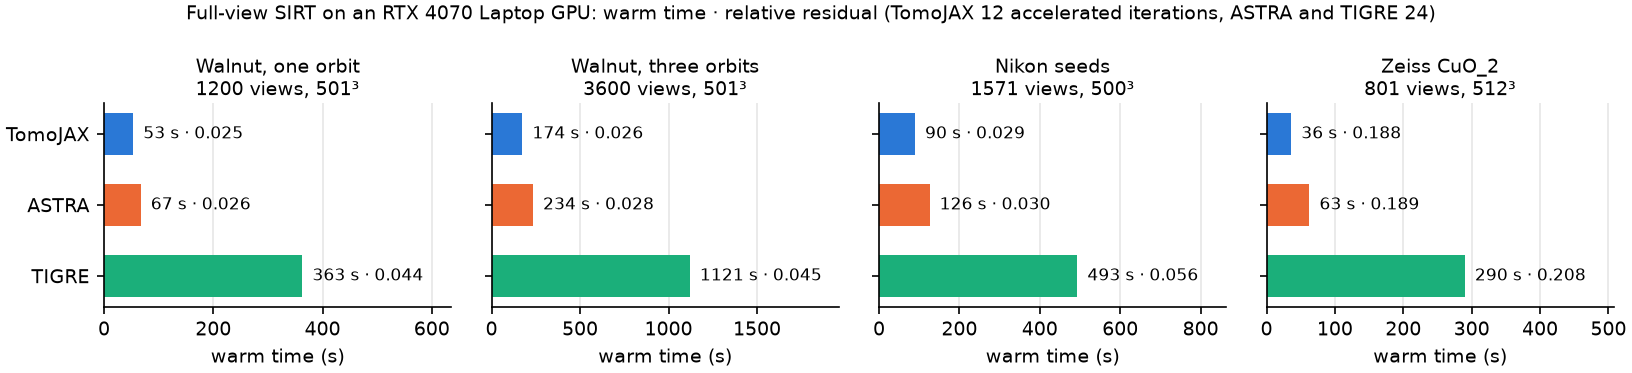
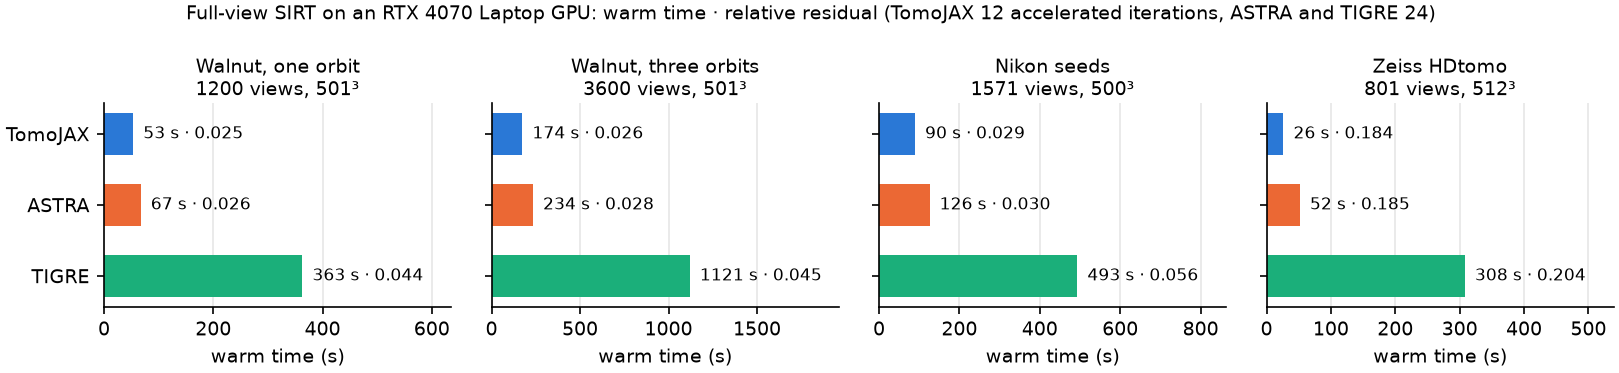
Remeasure the Zeiss numbers with the centre shift loaded with its recorded sign
Every number in docs/measurements.md taken on a Zeiss scan that records
AutoRecon/CenterShift (CuO-spl1, CuO_2 tomo-B, the HDtomo tomo-A) was measured
with the centre off by twice the shift. Remeasured on 2026-11-21:

- CuO FDK at fourfold binning, all three libraries (d8758ca5);
- the CuO CGLS rows, ASTRA-TomoJAX-TomoJAX-ASTRA (d8758ca5);
- the native CuO-spl1 FDK from raw frames and its 256-view residual
  (d8758ca5); the ASTRA run there is marked as measured before the fix;
- the HDtomo SIRT, CGLS and ordered-subset rows (1c94b346).

TomoJAX and ASTRA rows are bench/cone_matrix.py as documented. The TIGRE rows
and the native run follow the documented calls. The vendor NRMSE now states its
definition (blocks averaged onto our grid, one registration, one affine fit
inside the vendor's reconstructed field); the old region was not recorded, so
the new values are not compared with the old ones.

The SIRT chart named the HDtomo scan "Zeiss CuO_2"; it now says HDtomo and
shows the new numbers. CHANGELOG: Zeiss scans with a recorded centre shift, and
SkyScan scans recorded counter-clockwise, loaded wrongly before this release.

diff --git a/examples/gallery/sirt_times.py b/examples/gallery/sirt_times.py
@@ -25,7 +25,7 @@ TABLE = {
     "Walnut, three orbits\n3600 views, 501³":
         ((174.22, 0.026222), (234.35, 0.027558), (1120.54, 0.045232)),
     "Nikon seeds\n1571 views, 500³": ((89.63, 0.028788), (125.78, 0.030057), (493.43, 0.056112)),
-    "Zeiss CuO_2\n801 views, 512³": ((36.15, 0.187915), (62.76, 0.189497), (290.02, 0.207728)),
+    "Zeiss HDtomo\n801 views, 512³": ((26.32, 0.183740), (51.85, 0.185370), (308.06, 0.204008)),
 }  # fmt: skip
 
 

diff --git a/docs/measurements.md b/docs/measurements.md
@@ -771,8 +771,9 @@ Both image errors use the authors' reference, without intensity fitting.
 
 ### Full-view Nikon and Zeiss SIRT
 
-Measured 2026-10-19 on `272684c7` (TomoJAX and Zeiss ASTRA) and `35f4055f`
-(Nikon ASTRA), with TIGRE on `e3bc2f63` (Nikon) and `6149357d` (Zeiss).
+The Nikon rows were measured 2026-10-19 on `272684c7` (TomoJAX), `35f4055f`
+(ASTRA) and `e3bc2f63` (TIGRE). The Zeiss rows were measured 2026-11-21 on
+`1c94b346`, with the Zeiss centre shift loaded with its recorded sign.
 Nikon uses all 1571 views and a 500³ grid with 0.1880371266 mm
 voxels; Zeiss uses all 801 views and a 512³ grid with 0.0833853988647461 mm
 voxels. The input is
@@ -780,8 +781,9 @@ voxels. The input is
 is the Nikon seeds XTekCT file or the Zeiss HDtomo `tomo-A.txrm` file and
 `grid` is `tj.Grid(n, n, n, pitch, pitch, pitch)` with those dimensions.
 Each solve starts from its library's FDK. TomoJAX uses the same 12-iteration
-accelerated SIRT call above; ASTRA uses 24 nonnegative iterations with its
-forward/backprojectors in 512-view batches. TIGRE uses
+accelerated SIRT call above; ASTRA uses 24 nonnegative iterations, with its
+forward/backprojectors in 512-view batches for Nikon and `SIRT3D_CUDA` with
+`MinConstraint` 0 for Zeiss. TIGRE uses
 `tigre.algorithms.sirt(data, geo, angles, 24, init=initial, verbose=False)`,
 with `initial = tigre.algorithms.fdk(data, geo, angles, dowang=False)`.
 
@@ -790,21 +792,22 @@ with `initial = tigre.algorithms.fdk(data, geo, angles, dowang=False)`.
 | Nikon | TomoJAX | 95.52 / 89.63 | 0.028788 | 0.013977 |
 | Nikon | ASTRA | 135.89 / 125.78 | 0.030057 | — |
 | Nikon | TIGRE | 504.23 / 493.43 | 0.056112 | 0.102748 |
-| Zeiss | TomoJAX | 43.86 / 36.15 | 0.187915 | 0.025439 |
-| Zeiss | ASTRA | 69.11 / 62.76 | 0.189497 | — |
-| Zeiss | TIGRE | 291.57 / 290.02 | 0.207728 | 0.137740 |
+| Zeiss | TomoJAX | 33.32 / 26.32 | 0.183740 | 0.025155 |
+| Zeiss | ASTRA | 55.51 / 51.85 | 0.185370 | — |
+| Zeiss | TIGRE | 309.66 / 308.06 | 0.204008 | 0.136161 |
 
 Cold includes imports, loading and the first host volume with fresh compilation
 caches; warm repeats the solve. Filesystem caches are not cleared. Loading took
 3.03 / 10.04 / 3.02 s for Nikon TomoJAX / ASTRA / TIGRE, and
-4.99 / 5.77 / 2.05 s for Zeiss.
+3.63 / 3.73 / 3.88 s for Zeiss.
 The same calibrated ASTRA forward projector scores all three libraries. Volume
-differences are full-volume relative L2, without intensity fitting. On the
-fixed Zeiss vendor region, intensity-affine NRMSE is 0.353989 for TomoJAX,
-0.351702 for ASTRA and 0.343797 for TIGRE; this is an image diagnostic,
-not an acceptance gate.
+differences are full-volume relative L2, without intensity fitting. Against
+the vendor's reconstruction, averaged over 2 × 2 × 2 blocks onto the same grid
+and compared as in the CuO FDK section below, NRMSE is 0.321365 for TomoJAX,
+0.319123 for ASTRA and 0.311827 for TIGRE; this is an image diagnostic, not an
+acceptance gate.
 
-![Warm SIRT times of TomoJAX, ASTRA and TIGRE on the walnut with one and three orbits, the Nikon seeds and the Zeiss CuO_2 scan, each with its common-projector residual.](images/sirt-times.png)
+![Warm SIRT times of TomoJAX, ASTRA and TIGRE on the walnut with one and three orbits, the Nikon seeds and the Zeiss HDtomo scan, each with its common-projector residual.](images/sirt-times.png)
 
 The two SIRT tables above, drawn from their numbers: warm time and, after it,
 the common-projector relative residual.
@@ -815,7 +818,8 @@ uv run python examples/gallery/sirt_times.py sirt-times.png
 
 ### CuO FDK at fourfold binning
 
-Measured 2026-10-20 on `75435039`. Both Zeiss CuO scans use all 3201 views
+Measured 2026-11-21 on `d8758ca5`, with the Zeiss centre shift loaded with its
+recorded sign (before, both scans loaded with the wrong centre). Both Zeiss CuO scans use all 3201 views
 with 4 × 4 detector binning: spl1 has a 509³ grid and CuO2 a 507³ grid.
 Load `frames = tj.load_frames(path, darks=0)`, then
 `scan = frames.corrected(binning=4)` and call
@@ -826,30 +830,35 @@ geometry. No library changes its geometry or input to match another image.
 
 | Scan | Library | Cold / warm (s) | Common-projector relative residual | Full-volume difference to ASTRA |
 |---|---|---:|---:|---:|
-| spl1 | TomoJAX | 33.52 / 3.76 | 0.057908 | 0.126512 |
-| spl1 | ASTRA | 32.78 / 4.74 | 0.104623 | — |
-| spl1 | TIGRE | 38.01 / 11.59 | 0.104608 | 0.000039 |
-| CuO2 | TomoJAX | 39.70 / 4.12 | 0.078255 | 0.126404 |
-| CuO2 | ASTRA | 53.71 / 10.31 | 0.120631 | — |
-| CuO2 | TIGRE | 50.14 / 12.38 | 0.120616 | 0.000039 |
+| spl1 | TomoJAX | 32.48 / 3.44 | 0.056577 | 0.125739 |
+| spl1 | ASTRA | 32.13 / 5.33 | 0.103854 | — |
+| spl1 | TIGRE | 37.75 / 10.38 | 0.103839 | 0.000038 |
+| CuO2 | TomoJAX | 30.73 / 3.43 | 0.063343 | 0.122384 |
+| CuO2 | ASTRA | 29.19 / 5.22 | 0.112359 | — |
+| CuO2 | TIGRE | 35.56 / 10.08 | 0.112342 | 0.000039 |
 
 Cold includes loading and the first host image in a fresh process with fresh
 compilation caches; warm repeats the solve. Filesystem caches are not cleared.
-Loading and setup take 25.13 / 27.49 / 23.25 s for spl1 TomoJAX / ASTRA / TIGRE,
-and 30.13 / 44.41 / 29.63 s for CuO2. TomoJAX's spl1 cold workflow is slower
-than ASTRA's despite its faster warm solve.
+Loading and setup take 24.05 / 24.74 / 24.42 s for spl1 TomoJAX / ASTRA / TIGRE,
+and 23.08 / 22.48 / 24.11 s for CuO2. TomoJAX's cold workflow is slightly slower
+than ASTRA's on both scans despite its faster warm solve.
 
 All views use the same calibrated ASTRA residual. Full-volume differences are
 relative L2 without intensity fitting, not physical error. On spl1, differences
 in virtual padding, filter discretization and full-turn coverage weights account
-for the difference between TomoJAX and ASTRA. The fixed vendor comparison uses
-501 complete four-plane blocks, covering 2004 native planes, and one global
-affine intensity fit: NRMSE 0.154591 / 0.154654 / 0.154651 for TomoJAX / ASTRA /
-TIGRE. This is an image diagnostic, not ground truth. CuO2 has no vendor volume.
-On the full spl1 grid, TomoJAX–ASTRA relative L2 is 0.005718 within the
-vendor-defined sample mask, 0.007387 inside the horizontal cylinder seen by
-all views and 0.619622 outside it; 99.67% of the squared difference is outside.
-The sample mask includes pores and is independent of both library images.
+for the difference between TomoJAX and ASTRA. The vendor comparison averages
+the vendor's reconstruction over 4 × 4 × 4 blocks (501 four-plane blocks,
+covering 2004 native planes), registers it once to TomoJAX's volume (a fixed
+flip and an integer shift, by phase correlation of high-passed volumes) and fits
+one affine intensity map over the voxels inside the vendor's reconstructed field
+(above half the vendor volume's median). NRMSE, the fitted residual's RMS over
+the vendor's standard deviation there, is 0.109446 / 0.109836 / 0.109839 for
+TomoJAX / ASTRA / TIGRE. This is an image diagnostic, not ground truth. CuO2 has
+no vendor volume. On the full spl1 grid, TomoJAX–ASTRA relative L2 is 0.006836
+inside the vendor's field and 0.617055 outside it; 99.72% of the squared
+difference is outside. The field comes from the vendor's volume, independent of
+both library images. The TomoJAX and ASTRA rows are
+`bench/cone_matrix.py cuo PATH --library tomojax|astra --method fdk --repeats 1`.
 
 ### Full-view Nikon OSEM
 
@@ -879,9 +888,10 @@ these are image diagnostics, not reconstruction errors.
 
 ### Full-view CGLS
 
-The Walnut rows were measured 2026-11-19 on `40330cf`, and Nikon and
-Zeiss on `22571a59`, with ASTRA 2.5.0, CuPy 14.2.0 and one OpenBLAS/OMP
-thread per process.
+The Walnut rows were measured 2026-11-19 on `40330cf`, Nikon on `22571a59`
+and Zeiss 2026-11-21 on `1c94b346` (with the Zeiss centre shift loaded with its
+recorded sign), with ASTRA 2.5.0, CuPy 14.2.0 and one OpenBLAS/OMP thread per
+process.
 Walnut uses all 1200 views of orbit 2, detector binning 2 × 2 and a 501³ grid
 of 0.1 mm voxels. Nikon and Zeiss use the full-view inputs and physical grids
 above; the Nikon input is
@@ -896,8 +906,8 @@ with GPU residuals, host search projections and 128-view batches.
 | Walnut, one orbit | ASTRA | 18.34 / 13.86 | 0.182273 / 0.086669 | — |
 | Nikon | TomoJAX | 27.99 / 22.83 | 0.034928 | 0.027397 |
 | Nikon | ASTRA | 35.41 / 31.60 | 0.029934 | — |
-| Zeiss | TomoJAX | 15.30 / 10.15 | 0.163861 | 0.042137 |
-| Zeiss | ASTRA | 14.10 / 11.87 | 0.155535 | — |
+| Zeiss | TomoJAX | 16.29 / 9.20 | 0.158260 | 0.041474 |
+| Zeiss | ASTRA | 15.59 / 12.00 | 0.149628 | — |
 
 Each pair uses two fresh processes per library in ASTRA–TomoJAX–TomoJAX–ASTRA
 order, with two warm solves per process. The table averages all four warm
@@ -932,17 +942,11 @@ recorded. Major page faults in ABBA order
 were 1599 / 1588 / 1 / 22; reported process swaps were zero. These observations
 do not establish absence of system swapping or equal filesystem-cache state.
 
-On the Zeiss pair, TomoJAX's warm time is 14.5% lower, but cold
-time is 8.6% higher and common-projector residual 5.35% higher: **not a
-matched-error speed win**. Prescoring total-device GPU peaks are 4576 / 5166
-MiB and host RSS peaks 3.514 / 3.854 GB (TomoJAX / ASTRA). Whole-process host
-peaks including scoring are 4.478 / 3.854 GB; the whole-job GPU trace peaks
-at 5666 MiB. The temporary reference volume was deleted. CPU affinity was
-0–7. Each process recorded cumulative full-memory PSI stalls at its start
-and end. Total stalls per arm, divided conservatively by that arm's shortest
-reported solve time, are at most 0.00740%, below the 1% exclusion threshold.
-All four arms qualify; none was discarded. This bounds pressure within the
-solve timers without assuming that the whole-process average applies to each.
+On the Zeiss pair, TomoJAX's warm time is 23.3% lower, but cold time is 4.5%
+higher and its common-projector residual 5.8% higher: **not a matched-error
+speed win**. Prescoring total-device GPU peaks are 4577 / 5167 MiB and host RSS
+peaks 3.494 / 3.733 GB (TomoJAX / ASTRA). The temporary reference volume was
+deleted.
 
 The historical Walnut times on `e2cd2101` were 27.48 / 18.84 s for TomoJAX
 and 22.28 / 16.30 s for ASTRA. Historical Nikon times were 31.74 / 26.74 s
@@ -995,24 +999,26 @@ ASTRA uses its bounded device-residual recurrence with 128-view batches.
 |---|---|---:|---:|---:|
 | Walnut, three orbits, `3ba80328` | TomoJAX, 3 | 79.06 / 59.25 | 0.149590 / 0.061075 | 0.010133 |
 | Same | ASTRA, 4 | 74.56 / 60.26 | 0.146930 / 0.058154 | — |
-| CuO-spl1, `ed9641e7` | TomoJAX, 3 | 74.87 / 44.94 | 0.028927 | 0.073933 |
-| Same | ASTRA, 5 | 91.56 / 65.42 | 0.028078 | — |
-| CuO2, `ed9641e7` | TomoJAX, 3 | 80.78 / 48.60 | 0.061258 | 0.074565 |
-| Same | ASTRA, 5 | 95.80 / 66.05 | 0.060670 | — |
+| CuO-spl1, `d8758ca5` | TomoJAX, 3 | 65.67 / 34.64 | 0.026172 | 0.073441 |
+| Same | ASTRA, 5 | 94.67 / 72.43 | 0.025219 | — |
+| CuO2, `d8758ca5` | TomoJAX, 3 | 64.16 / 34.23 | 0.041269 | 0.069022 |
+| Same | ASTRA, 5 | 91.26 / 69.18 | 0.040453 | — |
 
 Walnut warm times are effectively tied: ASTRA's two samples are 58.98 and
 61.54 s; TomoJAX's are 59.257 and 59.252 s. Mean loading/setup and first solve
 take 17.26 + 61.79 s for TomoJAX and 16.07 + 58.49 s for ASTRA.
-At the fixed CuO fit targets, TomoJAX is 31.3% faster warm on spl1 and 26.4%
-on CuO2. These are data-fit comparisons, not physical image-error comparisons.
+The CuO rows were measured 2026-11-21, with the Zeiss centre shift loaded with
+its recorded sign. TomoJAX is 52.2% faster warm on spl1 and 50.5% on CuO2; at
+these iteration counts its common-projector fit is 3.8% and 2.0% higher than
+ASTRA's. These are data-fit comparisons, not physical image-error comparisons.
 Fixed orthogonal sections retain the specimen shapes and pores; their largest
 differences are smooth fields and acquisition-support boundaries.
 
 | Input | Peak solver GPU MiB, TomoJAX / ASTRA | Peak solver host GB, TomoJAX / ASTRA |
 |---|---:|---:|
 | Walnut, three orbits | 4404 / 5720 | 7.398 / 8.074 |
-| CuO-spl1 | 4704 / 6776 | 6.071 / 9.593 |
-| CuO2 | 4704 / 6694 | 6.048 / 9.528 |
+| CuO-spl1 | 4577 / 6777 | 5.477 / 7.406 |
+| CuO2 | 4577 / 6695 | 5.489 / 7.667 |
 
 Set `CUO_SPL1` to `Tristan Manchester_Copper_oxyde_spl1.txrm` and `CUO2`
 to `CuO_2_tomo-B.txrm`. Run each pair in ASTRA–TomoJAX–TomoJAX–ASTRA order
@@ -1110,8 +1116,9 @@ python bench/cone_matrix.py walnut1 "$WALNUT" --library tomojax \
 
 ### Full-view Nikon and Zeiss ordered subsets
 
-Measured 2026-10-20 UTC on `ed9641e7`, using the full-view inputs and grids
-above, one sweep from FDK, and ASTRA recomputed column normalization.
+The Nikon rows were measured 2026-10-20 UTC on `ed9641e7` and the Zeiss rows
+2026-11-21 on `1c94b346`, with the Zeiss centre shift loaded with its recorded
+sign, using the full-view inputs and grids above, one sweep from FDK, and ASTRA recomputed column normalization.
 Two fresh processes per library run in ASTRA–TomoJAX–TomoJAX–ASTRA order,
 with one warm repeat per process. Cold and warm use the CGLS timing boundaries.
 All rows meet their fixed common-projector fit target: 0.0354 for Nikon OS,
@@ -1121,12 +1128,13 @@ All rows meet their fixed common-projector fit target: 0.0354 for Nikon OS,
 |---|---|---:|---:|---:|
 | Nikon OS | TomoJAX, 13 | 18.63 / 13.08 | 0.034627 | 0.005683 |
 | Same | ASTRA, 12 | 16.08 / 12.34 | 0.035392 | — |
-| Zeiss OS | TomoJAX, 13 | 13.98 / 7.72 | 0.196145 | 0.022196 |
-| Same | ASTRA, 16 | 10.68 / 7.29 | 0.193721 | — |
-| Zeiss OSEM | TomoJAX, 1 | 12.19 / 5.48 | 0.217301 | 0.122820 |
-| Same | ASTRA, 2 | 8.76 / 5.04 | 0.209633 | — |
+| Zeiss OS | TomoJAX, 13 | 13.06 / 6.21 | 0.192199 | 0.021831 |
+| Same | ASTRA, 16 | 11.67 / 7.36 | 0.189707 | — |
+| Zeiss OSEM | TomoJAX, 1 | 11.84 / 4.51 | 0.213754 | 0.122147 |
+| Same | ASTRA, 2 | 9.86 / 5.22 | 0.206000 | — |
 
-TomoJAX's warm gaps are 6.0%, 5.9% and 8.7%, respectively. The fixed sections
+TomoJAX's warm time is 6.0% longer than ASTRA's on Nikon OS, and 15.6% and
+13.6% shorter on Zeiss OS and OSEM. The fixed sections
 retain the same objects. OS differences include edges, background and streaks;
 the larger OSEM difference is mainly object contrast, with TomoJAX's one-subset
 result dimmer than ASTRA's two-subset result. These target-fit comparisons
@@ -1137,7 +1145,8 @@ Nikon ASTRA at 16 subsets also passes, with probe warm time 12.27 s versus
 12.11 s at 12; their throughput difference is small. Zeiss ASTRA at 16 OS
 subsets is faster than 13. For Zeiss OSEM, two subsets beat one; TomoJAX's
 two-subset probe has fit 0.209491 and warm time 5.58 s, versus 5.49 s at one.
-Single-subset TomoJAX OSEM uses 4738 MiB peak GPU and 4.782 GB peak host
+These probes ran on `ed9641e7`, before the Zeiss centre-shift fix.
+Single-subset TomoJAX OSEM uses 4547 MiB peak GPU and 4.785 GB peak host
 memory in the paired runs.
 
 ```bash
@@ -1681,8 +1690,8 @@ All on the 8 GB laptop GPU:
 | SIRT from raw frames with `tj.reconstruct_slabs`, the whole Diamond I12 scan below: 1801 views of 2160 × 2560 pixels (39.8 GB corrected), a 2560² × 2160 volume (56.6 GB) | 1436 s of solving, 1.41 GB peak GPU memory and 3.7 GB host memory; 1.13 times the per-voxel time of an 8-row reconstruction that fits | 2026-10-17, `440cc563` |
 | `tj.reconstruct` of 352 rows of the same scan, returned as one 9.23 GB array | 211 s, 0.78 GB peak GPU memory, 17 GB host memory; 1.04 times the per-voxel time of 8 rows | 2026-10-17, `440cc563` |
 | OSEM of the FIPS walnut at full resolution: all 3600 views of 972 × 768 pixels, a 1001³ volume, 4 subsets × 1 iteration from FDK | First / repeat solve 230.65 / 241.81 s in 128-plane host slabs; loading 7.52 s; peak GPU 5798 MiB, host 15.57 GB anonymous; full / walnut-support relative L2 error 0.124385 / 0.094026 | 2026-10-21, `30f9f1df` |
-| FDK from raw CuO-spl1 frames: all 3201 views of 2036² pixels, a 2036³ volume, 32-plane output slabs | First / repeat correction and reconstruction 847.16 / 786.11 s; imports and loading 15.78 s; peak GPU 6056 MiB, host 12.634 GB, including scoring | 2026-10-20, `9be6e5ad` |
-| ASTRA FDK on the same raw CuO-spl1 frames and output slabs | First / repeat correction and reconstruction 847.16 / 838.56 s; imports and loading 13.67 s; peak GPU 3036 MiB, host 13.193 GB, including scoring | 2026-10-20, `76a1f412` |
+| FDK from raw CuO-spl1 frames: all 3201 views of 2036² pixels, a 2036³ volume, 32-plane output slabs | Correction and reconstruction 900.47 s; imports and loading 1.63 s; peak host 9.86 GB | 2026-11-21, `d8758ca5` |
+| ASTRA FDK on the same raw CuO-spl1 frames and output slabs, before the Zeiss centre-shift fix | First / repeat correction and reconstruction 847.16 / 838.56 s; imports and loading 13.67 s; peak GPU 3036 MiB, host 13.193 GB, including scoring | 2026-10-20, `76a1f412` |
 | FDK from raw CuO2 frames: all 3201 views of 2028² pixels, a 2028³ volume, 32-plane output slabs | First correction and reconstruction 1053.93 s; imports and loading 16.17 s; peak GPU 4494 MiB, host 14.240 GB, including scoring | 2026-10-20, `75435039` |
 | OS-SART of CuO-spl1 at twofold binning: all 3201 views of 1018² pixels corrected into memory (13.3 GB), a 1018³ volume kept on the GPU, 3 iterations × 8 subsets from zero | 441 s solving, 30 s correcting; peak GPU 7484 MiB, host 13.78 GB while solving (15.40 GB with scoring); relative residual 0.0319 on every eighth view | 2026-10-20, `30f9f1df` |
 | SIRT of a synthetic 1300³ volume (8.79 GB, more than the GPU) in host memory: 180 cone views of 1300² pixels, 3 iterations | 62.8 s solving in 128-plane slabs; peak GPU 6160 MiB, host 11.47 GB | 2026-10-20, `5cf50e6b` |
@@ -1699,29 +1708,26 @@ releasing the first volume.
 The CuO call is `tj.load_frames("Tristan Manchester_Copper_oxyde_spl1.txrm",
 darks=0)`, followed by `tj.reconstruct_slabs(frames, "fbp")`. Consume and
 release each block before advancing the iterator; no whole volume is retained.
-The grid uses the recorded 1.12756 µm sampling without binning. The first
-process uses fresh compilation caches and `XLA_PYTHON_CLIENT_PREALLOCATE=false`.
-Times sum the correction and reconstruction stages between scoring operations.
-Including interleaved scoring, the first / repeat passes take 1455.72 / 1365.08 s,
-with imports and loading additional to the first pass.
+The grid uses the recorded 1.12756 µm sampling without binning. The process
+uses fresh compilation caches and `XLA_PYTHON_CLIENT_PREALLOCATE=false`. The
+time sums the correction and reconstruction stages; writing each slab into a
+memory-mapped volume for scoring is outside it.
 
-CuO's relative projection residual is 0.0586312 on 256 fixed, evenly spaced
+CuO's relative projection residual is 0.0570821 on 256 fixed, evenly spaced
 views, using the full detector and an ASTRA forward projection summed over
-the physical output slabs. Reconstruction uses all 3201 views. The vendor
-comparison covers all 2005 planes with one fixed spatial registration and one
-whole-volume affine intensity fit: normalized RMSE 0.209660. It is a diagnostic,
-not physical ground truth; the reconstructed pores are visibly less sharp
-than the vendor's. Both metrics and the six retained native cuts agree exactly
-between repeats.
+the physical output slabs. Reconstruction uses all 3201 views. Against the
+vendor's reconstruction, averaged over 4 × 4 × 4 blocks and compared as in the
+CuO FDK section, NRMSE is 0.109866. It is a diagnostic, not physical ground
+truth.
 
+The ASTRA run and the comparisons below were measured before the Zeiss
+centre-shift fix, when both libraries loaded spl1 with a centre 5.1 pixels out.
 ASTRA uses `FDK_CUDA` in 256-view batches on the same 32-plane output slabs,
 preserving the complete acquisition's preweighting and angular scale. Its
 first / repeat scored passes take 1304.22 / 1314.98 s, with imports and loading
 additional to the first pass. Its projection residual is 0.1171325 and vendor
-NRMSE 0.209232, both repeatable. First correction and reconstruction times are
-roughly equal; TomoJAX's repeated reconstruction is 6.3% shorter, but ASTRA's
-scored passes are shorter. The lower TomoJAX projection residual does not
-establish better physical image accuracy.
+NRMSE 0.209232 by that run's comparison, both repeatable. The lower TomoJAX
+projection residual does not establish better physical image accuracy.
 On six native axial cuts, the relative difference between the images is 0.143371
 across the cuts and 0.008441 within an independently vendor-defined sample mask.
 99.41% of their squared difference lies outside the horizontal cylinder seen

diff --git a/CHANGELOG.md b/CHANGELOG.md
@@ -2,6 +2,13 @@
 
 ## Unreleased
 
+### Zeiss and SkyScan scans load with the geometry they record
+
+Before this release, a Zeiss scan that records a centre shift (`AutoRecon/CenterShift`)
+loaded with the wrong centre, off by twice the recorded shift, and a SkyScan scan recorded
+with counter-clockwise rotation loaded with its rotation reversed. The Zeiss numbers on the
+measurements page are remeasured with the corrected centre.
+
 ### Wide ring corrections run on an 8 GB card
 
 `Stripes(width)` takes windows wider than nine columns coarse to fine, so a wide window
